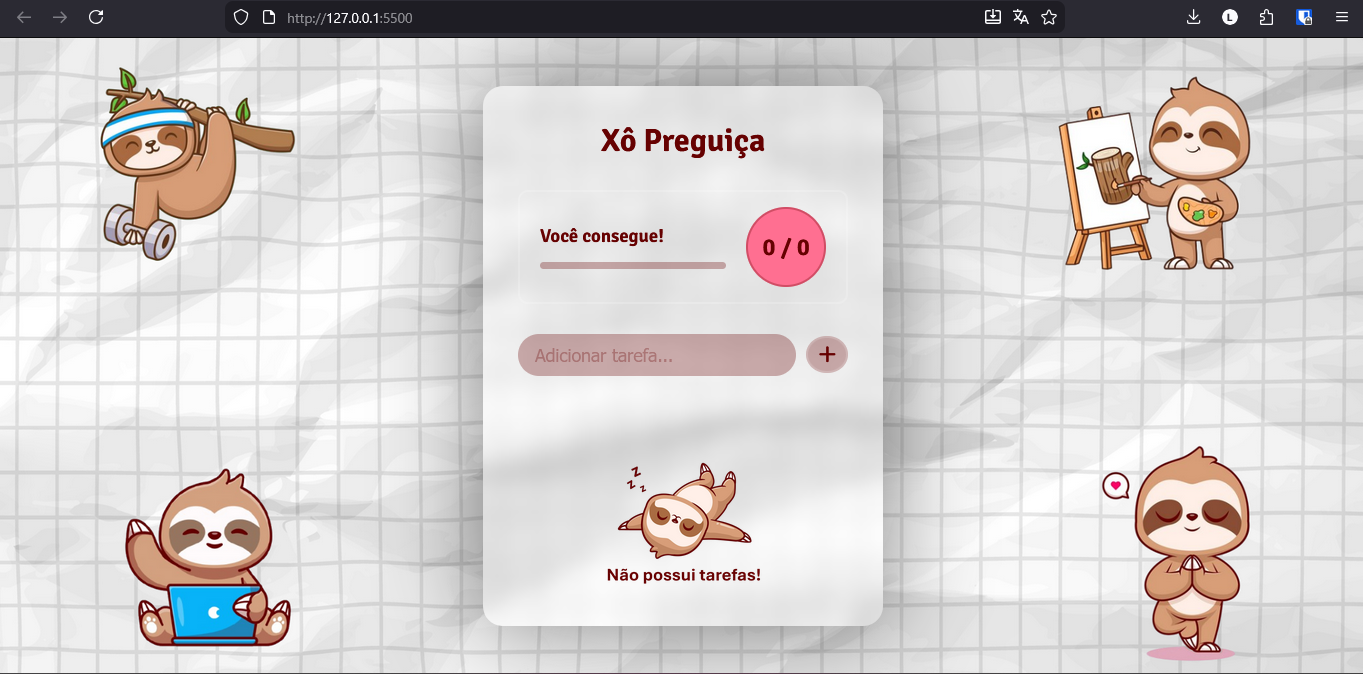
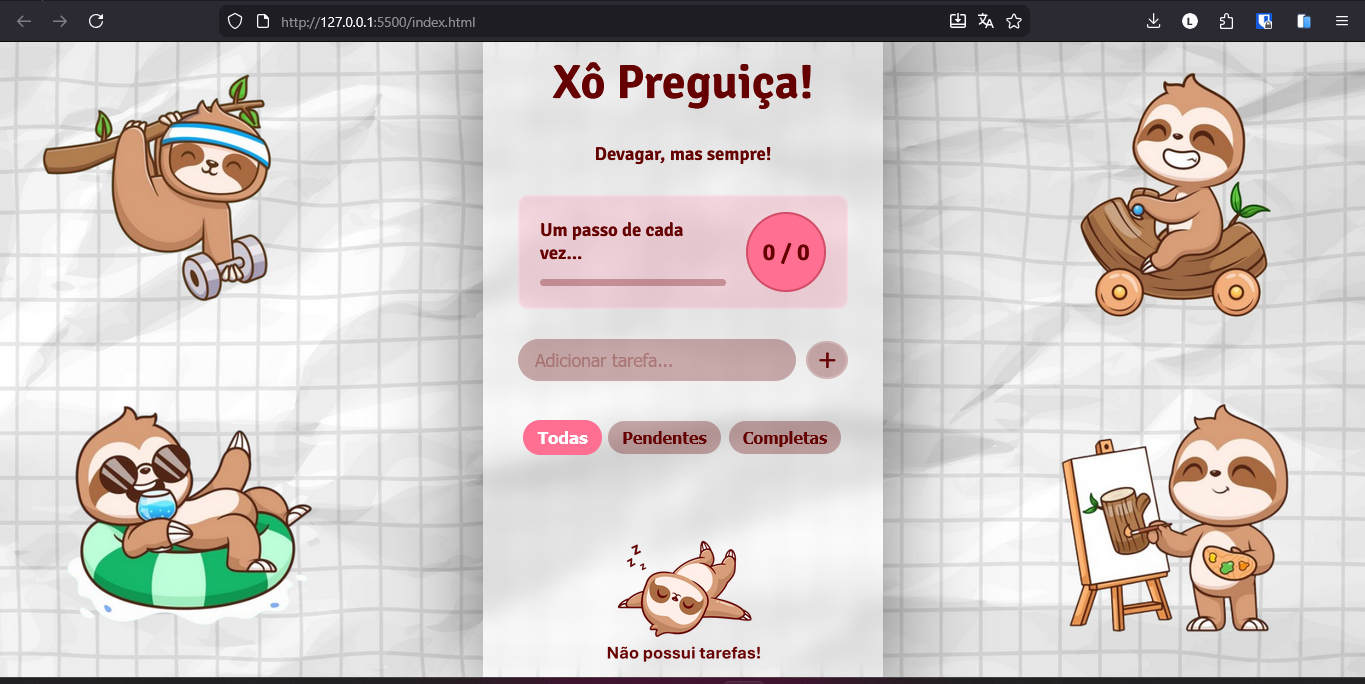
Adding some features
Filtragem por Status, ordenação Inteligente, é dando uma polida no código

diff --git a/scripts.js b/scripts.js
@@ -1,5 +1,4 @@
 document.addEventListener('DOMContentLoaded', () => {
-    // Elementos principais do app
     const taskInput = document.getElementById('task-input');
     const addTaskBtn = document.getElementById('add-task-btn');
     const taskList = document.getElementById('task-list');
@@ -8,117 +7,143 @@ document.addEventListener('DOMContentLoaded', () => {
     const progressBar = document.getElementById('progress');
     const progressNumbers = document.getElementById('numbers');
     const form = document.querySelector('.input-area');
+    const filters = document.querySelectorAll('.filters button');
 
+    let tasks = [];
+    let currentFilter = 'all';
 
-    // Mostra ou esconde imagem de vazio conforme tarefas
+    // Mostra ou esconde imagem de vazio
     const toggleEmptyState = () => {
         emptyImage.style.display = taskList.children.length === 0 ? 'block' : 'none';
         todosContainer.style.width = taskList.children.length > 0 ? '100%' : '50%';
     };
 
-
     // Atualiza barra e números de progresso
-    const updateProgress = (checkCompletion = true) => {
-        const totalTasks = taskList.children.length;
-        const completedTasks = taskList.querySelectorAll('.checkbox:checked').length;
+    const updateProgress = () => {
+        const totalTasks = tasks.length;
+        const completedTasks = tasks.filter(t => t.completed).length;
 
         progressBar.style.width = totalTasks ? `${(completedTasks / totalTasks) * 100}%` : '0%';
         progressNumbers.textContent = `${completedTasks} / ${totalTasks}`;
-        if(checkCompletion && totalTasks > 0 && completedTasks === totalTasks) {
+
+        if(totalTasks > 0 && completedTasks === totalTasks) {
             Confetti();
         }
     };
 
     // Salva tarefas no localStorage
-    const saveTasksLocalStorage = () => {
-        const tasks = Array.from(taskList.querySelectorAll('li')).map(li => ({
-            text: li.querySelector('span').textContent,
-            completed: li.querySelector('.checkbox').checked
-        }));
+    const saveTasks = () => {
         localStorage.setItem('tasks', JSON.stringify(tasks));
     };
 
-    // Carrega tarefas do localStorage ao iniciar
-    const loadTasksFromLocalStorage = () => {
+    // Carrega tarefas do localStorage
+    const loadTasks = () => {
         const savedTasks = JSON.parse(localStorage.getItem('tasks')) || [];
-        if (Array.isArray(savedTasks)) {
-            savedTasks.forEach(({text, completed}) => addTask(text, completed, false));
-        }
+        tasks = savedTasks;
+        renderTasks();
+    };
+
+    // Selecionar os botões de filtro
+    const filterButtons = document.querySelectorAll('.filters button'); 
+
+    filterButtons.forEach(button => {
+    button.addEventListener('click', () => {
+        filterButtons.forEach(btn => btn.classList.remove('selected'));
+        button.classList.add('selected');
+
+    });
+});
+
+document.querySelector('.filters button:first-child').classList.add('selected');
+
+    // Aplicando filtro e ordenação
+    const renderTasks = () => {
+        taskList.innerHTML = '';
+
+        let filteredTasks = tasks;
+        if(currentFilter === 'pending') filteredTasks = tasks.filter(t => !t.completed);
+        if(currentFilter === 'completed') filteredTasks = tasks.filter(t => t.completed);
+
+        filteredTasks.sort((a, b) => a.completed - b.completed);
+
+        // Cria elementos <li>
+        filteredTasks.forEach((task, index) => {
+            const li = document.createElement('li');
+            li.innerHTML = `
+                <input type="checkbox" class="checkbox" ${task.completed ? 'checked' : ''}/>
+                <span>${task.text}</span>
+                <div class="task-buttons">
+                    <button class="edit-btn"><i class="fa-solid fa-pen"></i></button>
+                    <button class="delete-btn"><i class="fa-solid fa-trash"></i></button>
+                </div>
+            `;
+
+            const checkbox = li.querySelector('.checkbox');
+            const editBtn = li.querySelector('.edit-btn');
+
+            if(task.completed) {
+                li.classList.add('completed');
+                editBtn.disabled = true;
+                editBtn.style.opacity = '0.5';
+                editBtn.style.pointerEvents = 'none';
+            }
+
+            // Checkbox evento
+            checkbox.addEventListener('change', () => {
+                task.completed = checkbox.checked;
+                renderTasks();
+                saveTasks();
+            });
+
+            // Editar tarefa
+            editBtn.addEventListener('click', () => {
+                if(!task.completed) {
+                    taskInput.value = task.text;
+                    tasks.splice(tasks.indexOf(task), 1);
+                    renderTasks();
+                    saveTasks();
+                }
+            });
+
+            // Deletar tarefa
+            li.querySelector('.delete-btn').addEventListener('click', () => {
+                tasks.splice(tasks.indexOf(task), 1);
+                renderTasks();
+                saveTasks();
+            });
+
+            taskList.appendChild(li);
+        });
+
         toggleEmptyState();
         updateProgress();
     };
 
-    // Adiciona nova tarefa à lista
-    const addTask = (text, completed = false, checkCompletion = true) => {
-        const taskText = (typeof text === 'string' && text.trim()) ? text.trim() : taskInput.value.trim();
-        if(!taskText) {
-            return;
-        }
+    // Adiciona nova tarefa
+    const addTask = (text) => {
+        const taskText = text?.trim() || taskInput.value.trim();
+        if(!taskText) return;
 
-        const li = document.createElement('li');
-        li.innerHTML = `
-        <input type="checkbox" class="checkbox" ${completed ? 'checked' : ''} />
-        <span>${taskText}</span>
-        <div class="task-buttons">
-            <button class="edit-btn"><i class="fa-solid fa-pen"></i></button>
-            <button class="delete-btn"><i class="fa-solid fa-trash"></i></button>
-        </div>
-        `;
-
-        const checkbox = li.querySelector('.checkbox');
-        const editBtn = li.querySelector('.edit-btn');
-
-        if (completed) {
-            li.classList.add('completed');
-            editBtn.disabled = true;
-            editBtn.style.opacity = '0.5';
-            editBtn.style.pointerEvents = 'none';
-        }
-
-        // Marca/desmarca tarefa como concluída
-        checkbox.addEventListener('change', () => {
-            const isChecked = checkbox.checked;
-            li.classList.toggle('completed', isChecked);
-            editBtn.disabled = isChecked;
-            editBtn.style.opacity = isChecked ? '0.5' : '1';
-            editBtn.style.pointerEvents = isChecked ? 'none' : 'auto';
-            updateProgress();
-            saveTasksLocalStorage();
-        });
-
-        // Edita tarefa
-        editBtn.addEventListener('click', () => {
-            if(!checkbox.checked) {
-                taskInput.value = li.querySelector('span').textContent;
-                li.remove();
-                toggleEmptyState();
-                updateProgress(false);
-                saveTasksLocalStorage();
-            };
-        });
-
-        // Remove tarefa da lista
-        li.querySelector('.delete-btn').addEventListener('click', () => {
-            li.remove();
-            toggleEmptyState();
-            updateProgress();
-            saveTasksLocalStorage();
-        });
-
-        taskList.appendChild(li);
+        tasks.push({ text: taskText, completed: false });
         taskInput.value = '';
-        toggleEmptyState();
-        updateProgress(checkCompletion);
-        saveTasksLocalStorage();
+        renderTasks();
+        saveTasks();
     };
 
-    // Adiciona tarefa ao enviar o formulário
-    form.addEventListener('submit', (e) => {
+    // Eventos
+    form.addEventListener('submit', e => {
         e.preventDefault();
         addTask();
     });
 
-    //Rotação de Slogans
+    filters.forEach(btn => {
+        btn.addEventListener('click', () => {
+            currentFilter = btn.dataset.filter;
+            renderTasks();
+        });
+    });
+
+    // Rotação de slogans
     const slogans = [
         "Sua lista. O pesadelo da preguiça",
         "Devagar, mas sempre!",
@@ -127,27 +152,19 @@ document.addEventListener('DOMContentLoaded', () => {
         "Tarefa feita é tarefa riscada"
     ];
     let sloganIndex = 0;
-
     const sloganElement = document.getElementById('slogan-text');
-
-    const rotateSlogans = () => {
+    setInterval(() => {
         sloganIndex = (sloganIndex + 1) % slogans.length;
         sloganElement.textContent = slogans[sloganIndex];
-    };
-    
-    // Intervalo para função rotateSlogans
-    setInterval(rotateSlogans, 10000); 
-    
-    loadTasksFromLocalStorage(); // Inicializa lista de tarefas
-    
+    }, 10000);
+
+    // Inicializa
+    loadTasks();
 });
 
-// Função para efeito de confete ao completar todas as tarefas
+// Confete
 const Confetti = () => {
-    if (typeof confetti !== 'function') {
-        console.warn('Confetti library not available');
-        return;
-    }
+    if (typeof confetti !== 'function') return;
 
     const defaults = {
         spread: 360,
@@ -160,19 +177,8 @@ const Confetti = () => {
     };
 
     function shoot() {
-        confetti({
-            ...defaults,
-            particleCount: 40,
-            scalar: 1.2,
-            shapes: ['star'],
-        });
-
-        confetti({
-            ...defaults,
-            particleCount: 10,
-            scalar: 0.75,
-            shapes: ['circle'],
-        });
+        confetti({ ...defaults, particleCount: 40, scalar: 1.2, shapes: ['star'] });
+        confetti({ ...defaults, particleCount: 10, scalar: 0.75, shapes: ['circle'] });
     }
 
     shoot();

diff --git a/index.html b/index.html
@@ -17,7 +17,7 @@
             <h3 id="slogan-text">Devagar, mas sempre!</h3>
             <div class="stat-container"> <!-- Estatísticas e progresso -->
                 <div class="details">
-                    <h3>Você consegue!</h3>
+                    <h3>Um passo de cada vez...</h3>
                     <div id="progressbar">
                         <div id="progress"></div>
                     </div>
@@ -30,6 +30,11 @@
                 <input id="task-input" placeholder="Adicionar tarefa...">
                 <button type="submit" id="add-task-btn"><i class="fa-solid fa-plus"></i></button>
             </form>
+            <div class="filters"> <!--- Adiciona os filtros-->
+                <button data-filter="all">Todas</button>
+                <button data-filter="pending">Pendentes</button>
+                <button data-filter="completed">Completas</button>
+            </div>
             <div class="todos-container"> <!-- Lista de tarefas -->
                 <ul id="task-list"></ul>
                 <img class="empty-image" src="img/preguiça-dormindo.PNG" alt="empty"> <!-- Imagem quando vazio -->

diff --git a/styles.css b/styles.css
@@ -45,7 +45,7 @@ body {
 }
 
 .todo-app h1 {
-    font-size: 2rem;
+    font-size: 3rem;
 }
 
 /* Bloco de estatísticas e progresso */
@@ -140,6 +140,42 @@ body {
 .input-area button:hover {
     transform: scale(1.1);
     background: #ff6f91;
+}
+
+/* Filtros */
+.filters {
+    display: flex;
+    justify-content: center; 
+    align-items: center;
+    width: 100%;
+    margin-top: 10px; 
+    gap: 8px; 
+}
+
+.filters button {
+    margin: 0; 
+    padding: 7px 14px; 
+    border-radius: 30px;
+    color: #660101ff;
+    font-size: 1rem;
+    font-weight: 700; 
+    background: rgb(102, 1, 1, 0.3); 
+    border: none; 
+    cursor: pointer;
+    transition: all 0.2s ease;
+}
+
+.filters button:hover {
+    transform: scale(1.05); 
+    background: #ff6f91; 
+    color: white; 
+}
+
+/* NOVO: Estilo para o filtro selecionado (ativo) */
+.filters button.selected {
+    transform: scale(1.05);
+    background: #ff6f91; 
+    color: white; 
 }
 
 /* Container da lista de tarefas */
